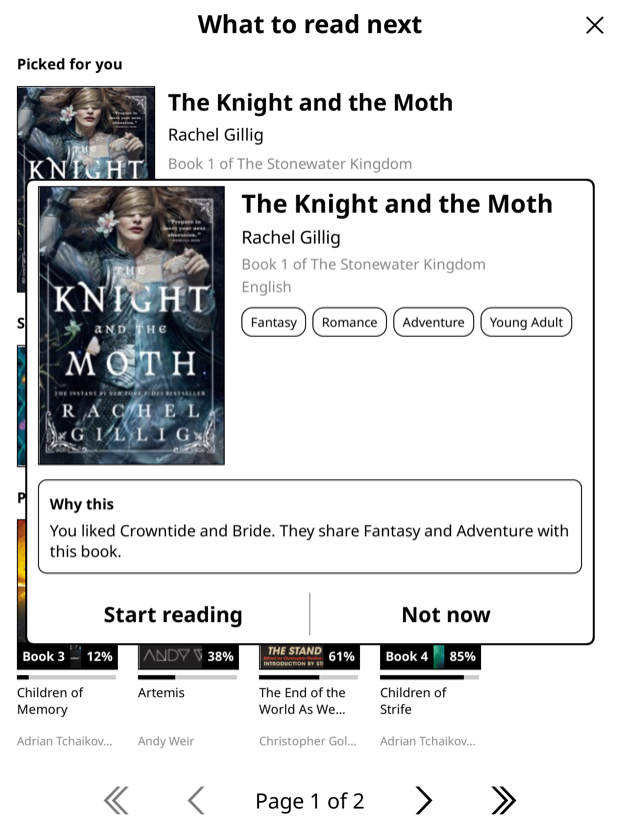
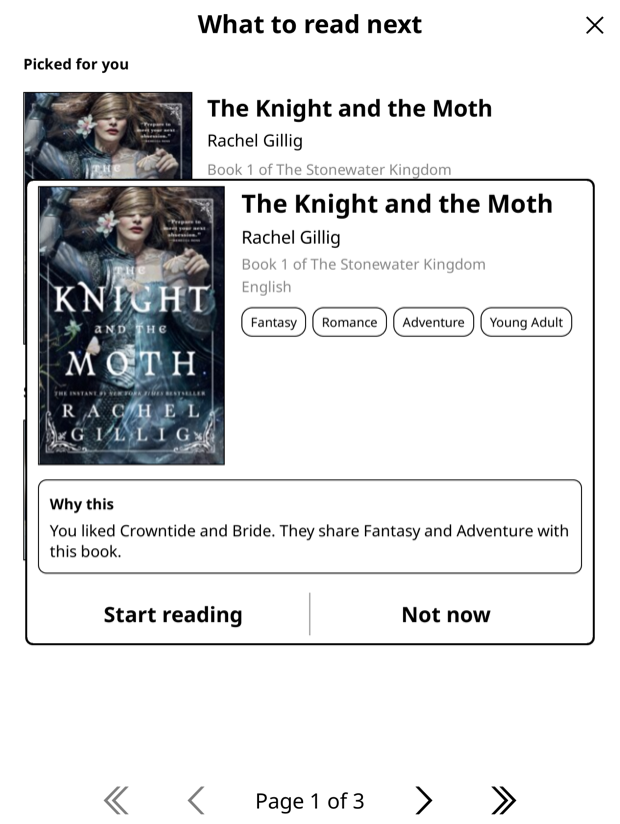
fix: four covers across with more air, quiet captions, and a proper placeholder cover
Shelves hold four books with room between them. The black tags on the covers are gone: the author sits directly under the title, with a grey line for which book of a series it is and how far through you are. Titles take only the lines they need, and the authors line up across a row. A book with no cover in the cache gets a plain grey card with its title. Groups are a little further apart, and the first page gives its two cards bigger covers.

Changed region(s): [[0.0, 0.0607, 0.7968, 0.9102], [0.6129, 0.7585, 0.7968, 0.9102], [0.2145, 0.8799, 0.3065, 0.9102]]

diff --git a/CLAUDE.md b/CLAUDE.md
@@ -29,4 +29,4 @@ A KOReader plugin in Lua. `tests/run.sh` runs the tests under plain `luajit`.
 
 ## The list
 
-The Pick next list is drawn by `afterword/picklist.lua`: KOReader's own `Menu` (title bar, page arrows, paging) with its own rows: a group heading, a hero or compact card, and a shelf of up to five covers. Rows have different heights, and `PickMenu:setupItemHeights` decides which fit on a page, so the paging stays KOReader's. Tapping a book opens `afterword/detail.lua`, a sheet in the style of the end-of-book screen. Neither has unit tests, because they are all KOReader widgets: look at them in the emulator, at a short screen too so the list pages, and seed it with `tools/seed-emulator.py` so there is a taste to show. What goes in them (the groups, their order, why a book was picked) is `suggest.lua` and `taste.lua`, which are tested.
+The Pick next list is drawn by `afterword/picklist.lua`: KOReader's own `Menu` (title bar, page arrows, paging) with its own rows: a group heading, a hero or compact card, and a shelf of up to four covers. Rows have different heights, and `PickMenu:setupItemHeights` decides which fit on a page, so the paging stays KOReader's. Tapping a book opens `afterword/detail.lua`, a sheet in the style of the end-of-book screen. Neither has unit tests, because they are all KOReader widgets: look at them in the emulator, at a short screen too so the list pages, and seed it with `tools/seed-emulator.py` so there is a taste to show. What goes in them (the groups, their order, why a book was picked) is `suggest.lua` and `taste.lua`, which are tested.
